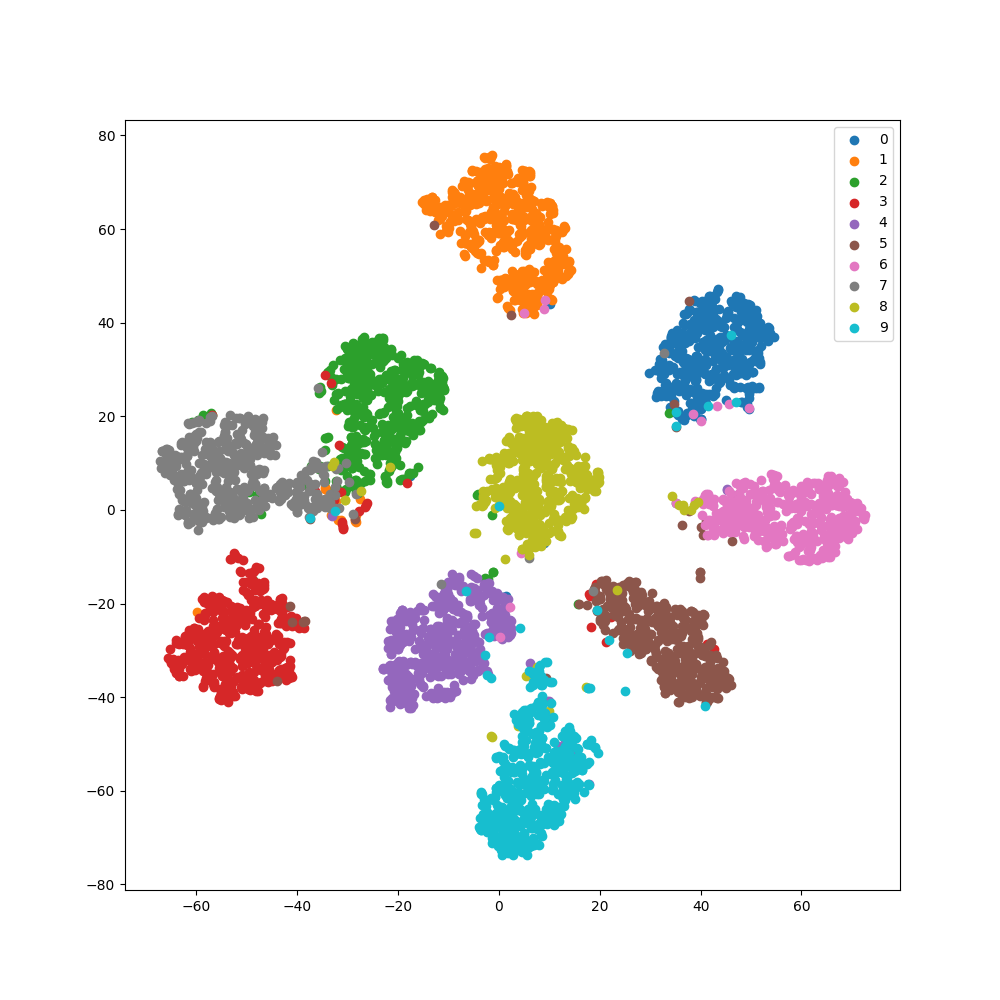
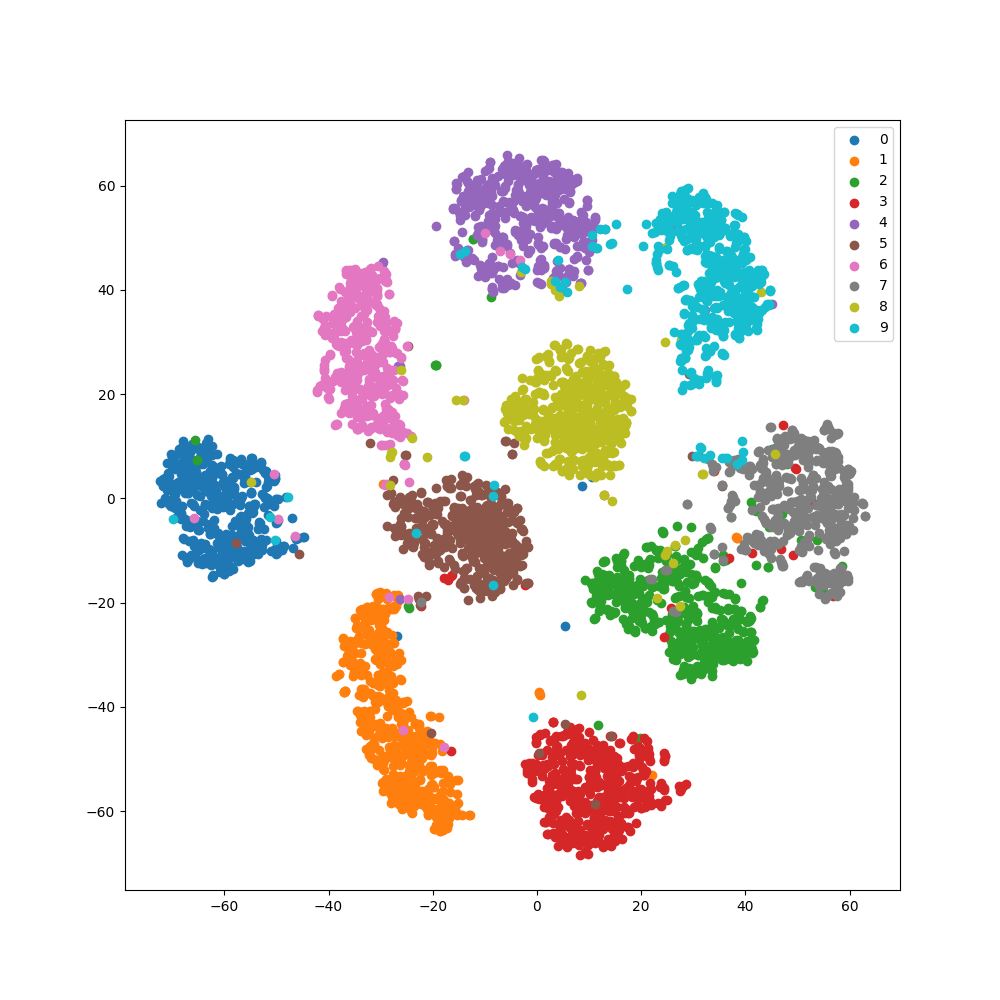
ruff formating

diff --git a/src/project_mlops/main.py b/src/project_mlops/main.py
@@ -11,67 +11,57 @@ app = typer.Typer()
 
 @app.command()
 def train(lr: float = 1e-3, batch_size: int = 32, epochs: int = 10) -> None:
-    """Train a model on MNIST."""
+    """Train a model on MNIST.
+
+    args:
+        lr: Learning rate
+        batch_size: Batch size
+        epochs: Number of epochs
+
+    returns:
+        None
+    """
     print("Training day and night")
     print(f"{lr=}, {batch_size=}, {epochs=}")
 
+    # initialize model and load data
     model = MyAwesomeModel().to(DEVICE)
     train_set, _ = corrupt_mnist()
 
+    # create dataloaders
     train_dataloader = torch.utils.data.DataLoader(train_set, batch_size=batch_size)
 
+    # define loss and optimizer
     loss_fn = torch.nn.CrossEntropyLoss()
     optimizer = torch.optim.Adam(model.parameters(), lr=lr)
 
-    statistics = {"train_loss": [], "train_accuracy": []}
+    statistics = {"train_loss": [], "train_accuracy": []}  # store stats
     for epoch in range(epochs):
-        model.train()
+        model.train()  # set model to train mode
         for i, (img, target) in enumerate(train_dataloader):
-            img, target = img.to(DEVICE), target.to(DEVICE)
-            optimizer.zero_grad()
-            y_pred = model(img)
-            loss = loss_fn(y_pred, target)
-            loss.backward()
-            optimizer.step()
-            statistics["train_loss"].append(loss.item())
+            img, target = img.to(DEVICE), target.to(DEVICE)  # move data to device
+            optimizer.zero_grad()  # zero gradients
+            y_pred = model(img)  # forward pass
+            loss = loss_fn(y_pred, target)  # compute loss
+            loss.backward()  # backward pass
+            optimizer.step()  # update weights
+            statistics["train_loss"].append(loss.item())  # save loss
 
-            accuracy = (y_pred.argmax(dim=1) == target).float().mean().item()
-            statistics["train_accuracy"].append(accuracy)
+            accuracy = (y_pred.argmax(dim=1) == target).float().mean().item()  # compute accuracy
+            statistics["train_accuracy"].append(accuracy)  # save accuracy
 
             if i % 100 == 0:
-                print(f"Epoch {epoch}, iter {i}, loss: {loss.item()}")
+                print(f"Epoch {epoch}, iter {i}, loss: {loss.item()}, accuracy: {accuracy}")
 
     print("Training complete")
-    torch.save(model.state_dict(), "model.pth")
+    torch.save(model.state_dict(), "model.pth")  # save model -> models/model.pth
     fig, axs = plt.subplots(1, 2, figsize=(15, 5))
     axs[0].plot(statistics["train_loss"])
     axs[0].set_title("Train loss")
     axs[1].plot(statistics["train_accuracy"])
     axs[1].set_title("Train accuracy")
-    fig.savefig("training_statistics.png")
-
-
-@app.command()
-def evaluate(model_checkpoint: str) -> None:
-    """Evaluate a trained model."""
-    print("Evaluating like my life depended on it")
-    print(model_checkpoint)
-
-    model = MyAwesomeModel().to(DEVICE)
-    model.load_state_dict(torch.load(model_checkpoint))
-
-    _, test_set = corrupt_mnist()
-    test_dataloader = torch.utils.data.DataLoader(test_set, batch_size=32)
-
-    model.eval()
-    correct, total = 0, 0
-    for img, target in test_dataloader:
-        img, target = img.to(DEVICE), target.to(DEVICE)
-        y_pred = model(img)
-        correct += (y_pred.argmax(dim=1) == target).float().sum().item()
-        total += target.size(0)
-    print(f"Test accuracy: {correct / total}")
+    fig.savefig("training_statistics.png")  # save figure -> reports/figures/training_statistics.png
 
 
 if __name__ == "__main__":
-    app()
+    typer.run(train)

diff --git a/src/project_mlops/data.py b/src/project_mlops/data.py
@@ -1,32 +1,64 @@
 import torch
 import typer
+import os
+import glob
 
 
 def normalize(images: torch.Tensor) -> torch.Tensor:
-    """Normalize images."""
+    """Normalize images to z-score standardization.
+
+    args:
+        images: Tensor (N, C, H, W)
+
+    returns:
+        normalized images: Tensor (N, C, H, W)
+    """
     return (images - images.mean()) / images.std()
 
 
 def preprocess_data(raw_dir: str, processed_dir: str) -> None:
-    """Process raw data and save it to processed directory."""
-    train_images, train_target = [], []
-    for i in range(6):
-        train_images.append(torch.load(f"{raw_dir}/train_images_{i}.pt"))
-        train_target.append(torch.load(f"{raw_dir}/train_target_{i}.pt"))
+    """Process raw data, both train and test, and save it to processed directory.
+
+    args:
+        raw_dir: Raw data directory
+        processed_dir: Processed data save directory
+
+    returns:
+        None
+    """
+    # Load and concatenate train data
+    train_images, train_target = [], []  # create empty lists
+    images_paths = sorted(glob.glob(os.path.join(raw_dir, "train_images_*.pt")))
+    targets_paths = sorted(glob.glob(os.path.join(raw_dir, "train_target_*.pt")))
+    if not images_paths:  # check if list is empty
+        raise ValueError(f"No train_images files found in {raw_dir}")  # if empty -> raise error
+    if len(images_paths) != len(targets_paths):  # check input/target len match
+        raise ValueError(
+            f"Mismatched number of train images ({len(images_paths)}) and targets ({len(targets_paths)}) in {raw_dir}"
+        )
+    # append onto lists
+    for img_p, tgt_p in zip(images_paths, targets_paths):
+        train_images.append(torch.load(img_p))
+        train_target.append(torch.load(tgt_p))
+
+    # create single dir tensors
     train_images = torch.cat(train_images)
     train_target = torch.cat(train_target)
 
+    # Load test data
     test_images: torch.Tensor = torch.load(f"{raw_dir}/test_images.pt")
     test_target: torch.Tensor = torch.load(f"{raw_dir}/test_target.pt")
 
-    train_images = train_images.unsqueeze(1).float()
+    train_images = train_images.unsqueeze(1).float()  # use unsqueeze to add channel dim
     test_images = test_images.unsqueeze(1).float()
-    train_target = train_target.long()
+    train_target = train_target.long()  # ensure target is long dtype for CE loss
     test_target = test_target.long()
 
+    # use def normalize
     train_images = normalize(train_images)
     test_images = normalize(test_images)
 
+    # save processed data
     torch.save(train_images, f"{processed_dir}/train_images.pt")
     torch.save(train_target, f"{processed_dir}/train_target.pt")
     torch.save(test_images, f"{processed_dir}/test_images.pt")
@@ -34,7 +66,15 @@ def preprocess_data(raw_dir: str, processed_dir: str) -> None:
 
 
 def corrupt_mnist() -> tuple[torch.utils.data.Dataset, torch.utils.data.Dataset]:
-    """Return train and test datasets for corrupt MNIST."""
+    """Return train and test datasets for corrupt MNIST.
+
+    args:
+        None
+
+    returns:
+        train_set: torch.utils.data.Dataset
+    """
+    # load processed data
     train_images = torch.load("data/processed/train_images.pt")
     train_target = torch.load("data/processed/train_target.pt")
     test_images = torch.load("data/processed/test_images.pt")

diff --git a/src/project_mlops/visualize.py b/src/project_mlops/visualize.py
@@ -5,15 +5,19 @@ from project_mlops.model import MyAwesomeModel
 from sklearn.decomposition import PCA
 from sklearn.manifold import TSNE
 
-DEVICE = torch.device(
-    "cuda" if torch.cuda.is_available()
-    else "mps" if torch.backends.mps.is_available()
-    else "cpu"
-)
+DEVICE = torch.device("cuda" if torch.cuda.is_available() else "mps" if torch.backends.mps.is_available() else "cpu")
 
 
 def visualize(model_checkpoint: str, figure_name: str = "embeddings.png") -> None:
-    """Visualize model predictions."""
+    """Visualize model predictions, and save as a figure.
+
+    args:
+        model_checkpoint: Path to model checkpoint
+        figure_name: Name of the output figure file
+
+    returns:
+        None
+    """
     model: torch.nn.Module = MyAwesomeModel().to(DEVICE)
 
     # load weights onto correct device
@@ -21,7 +25,7 @@ def visualize(model_checkpoint: str, figure_name: str = "embeddings.png") -> Non
     model.load_state_dict(state_dict)
 
     model.eval()
-    model.fc = torch.nn.Identity()
+    model.fc1 = torch.nn.Identity()
 
     test_images = torch.load("data/processed/test_images.pt")
     test_target = torch.load("data/processed/test_target.pt")

diff --git a/src/project_mlops/model.py b/src/project_mlops/model.py
@@ -3,7 +3,20 @@ from torch import nn
 
 
 class MyAwesomeModel(nn.Module):
-    """My custom model."""
+    """
+    A simple Convolutional Neural Network (CNN) for image classification on MNIST dataset.
+    Three layered cnn followed by a fully connected layer.
+
+    Architecture:
+    - Conv2d -> ReLU -> MaxPool2d
+    - Conv2d -> ReLU -> MaxPool2d
+    - Conv2d -> ReLU -> MaxPool2d
+    - Dropout
+    - Fully Connected Layer
+
+    Input: 1x28x28 grayscale images
+    Output: 10 class scores
+    """
 
     def __init__(self) -> None:
         super(MyAwesomeModel, self).__init__()
@@ -15,7 +28,7 @@ class MyAwesomeModel(nn.Module):
         self.fc1 = nn.Linear(128, 10)
         self.reLU = nn.ReLU()
         self.maxpool = nn.MaxPool2d(2)
-    
+
     def forward(self, x: torch.Tensor) -> torch.Tensor:
         x = self.reLU(self.conv1(x))
         x = self.maxpool(x)

diff --git a/README.md b/README.md
@@ -1,4 +1,4 @@
-# project_mlops
+# Project_mlops
 
 Project repo for DTU course MLOPS
 This repository contains a structured machine learning project following an
